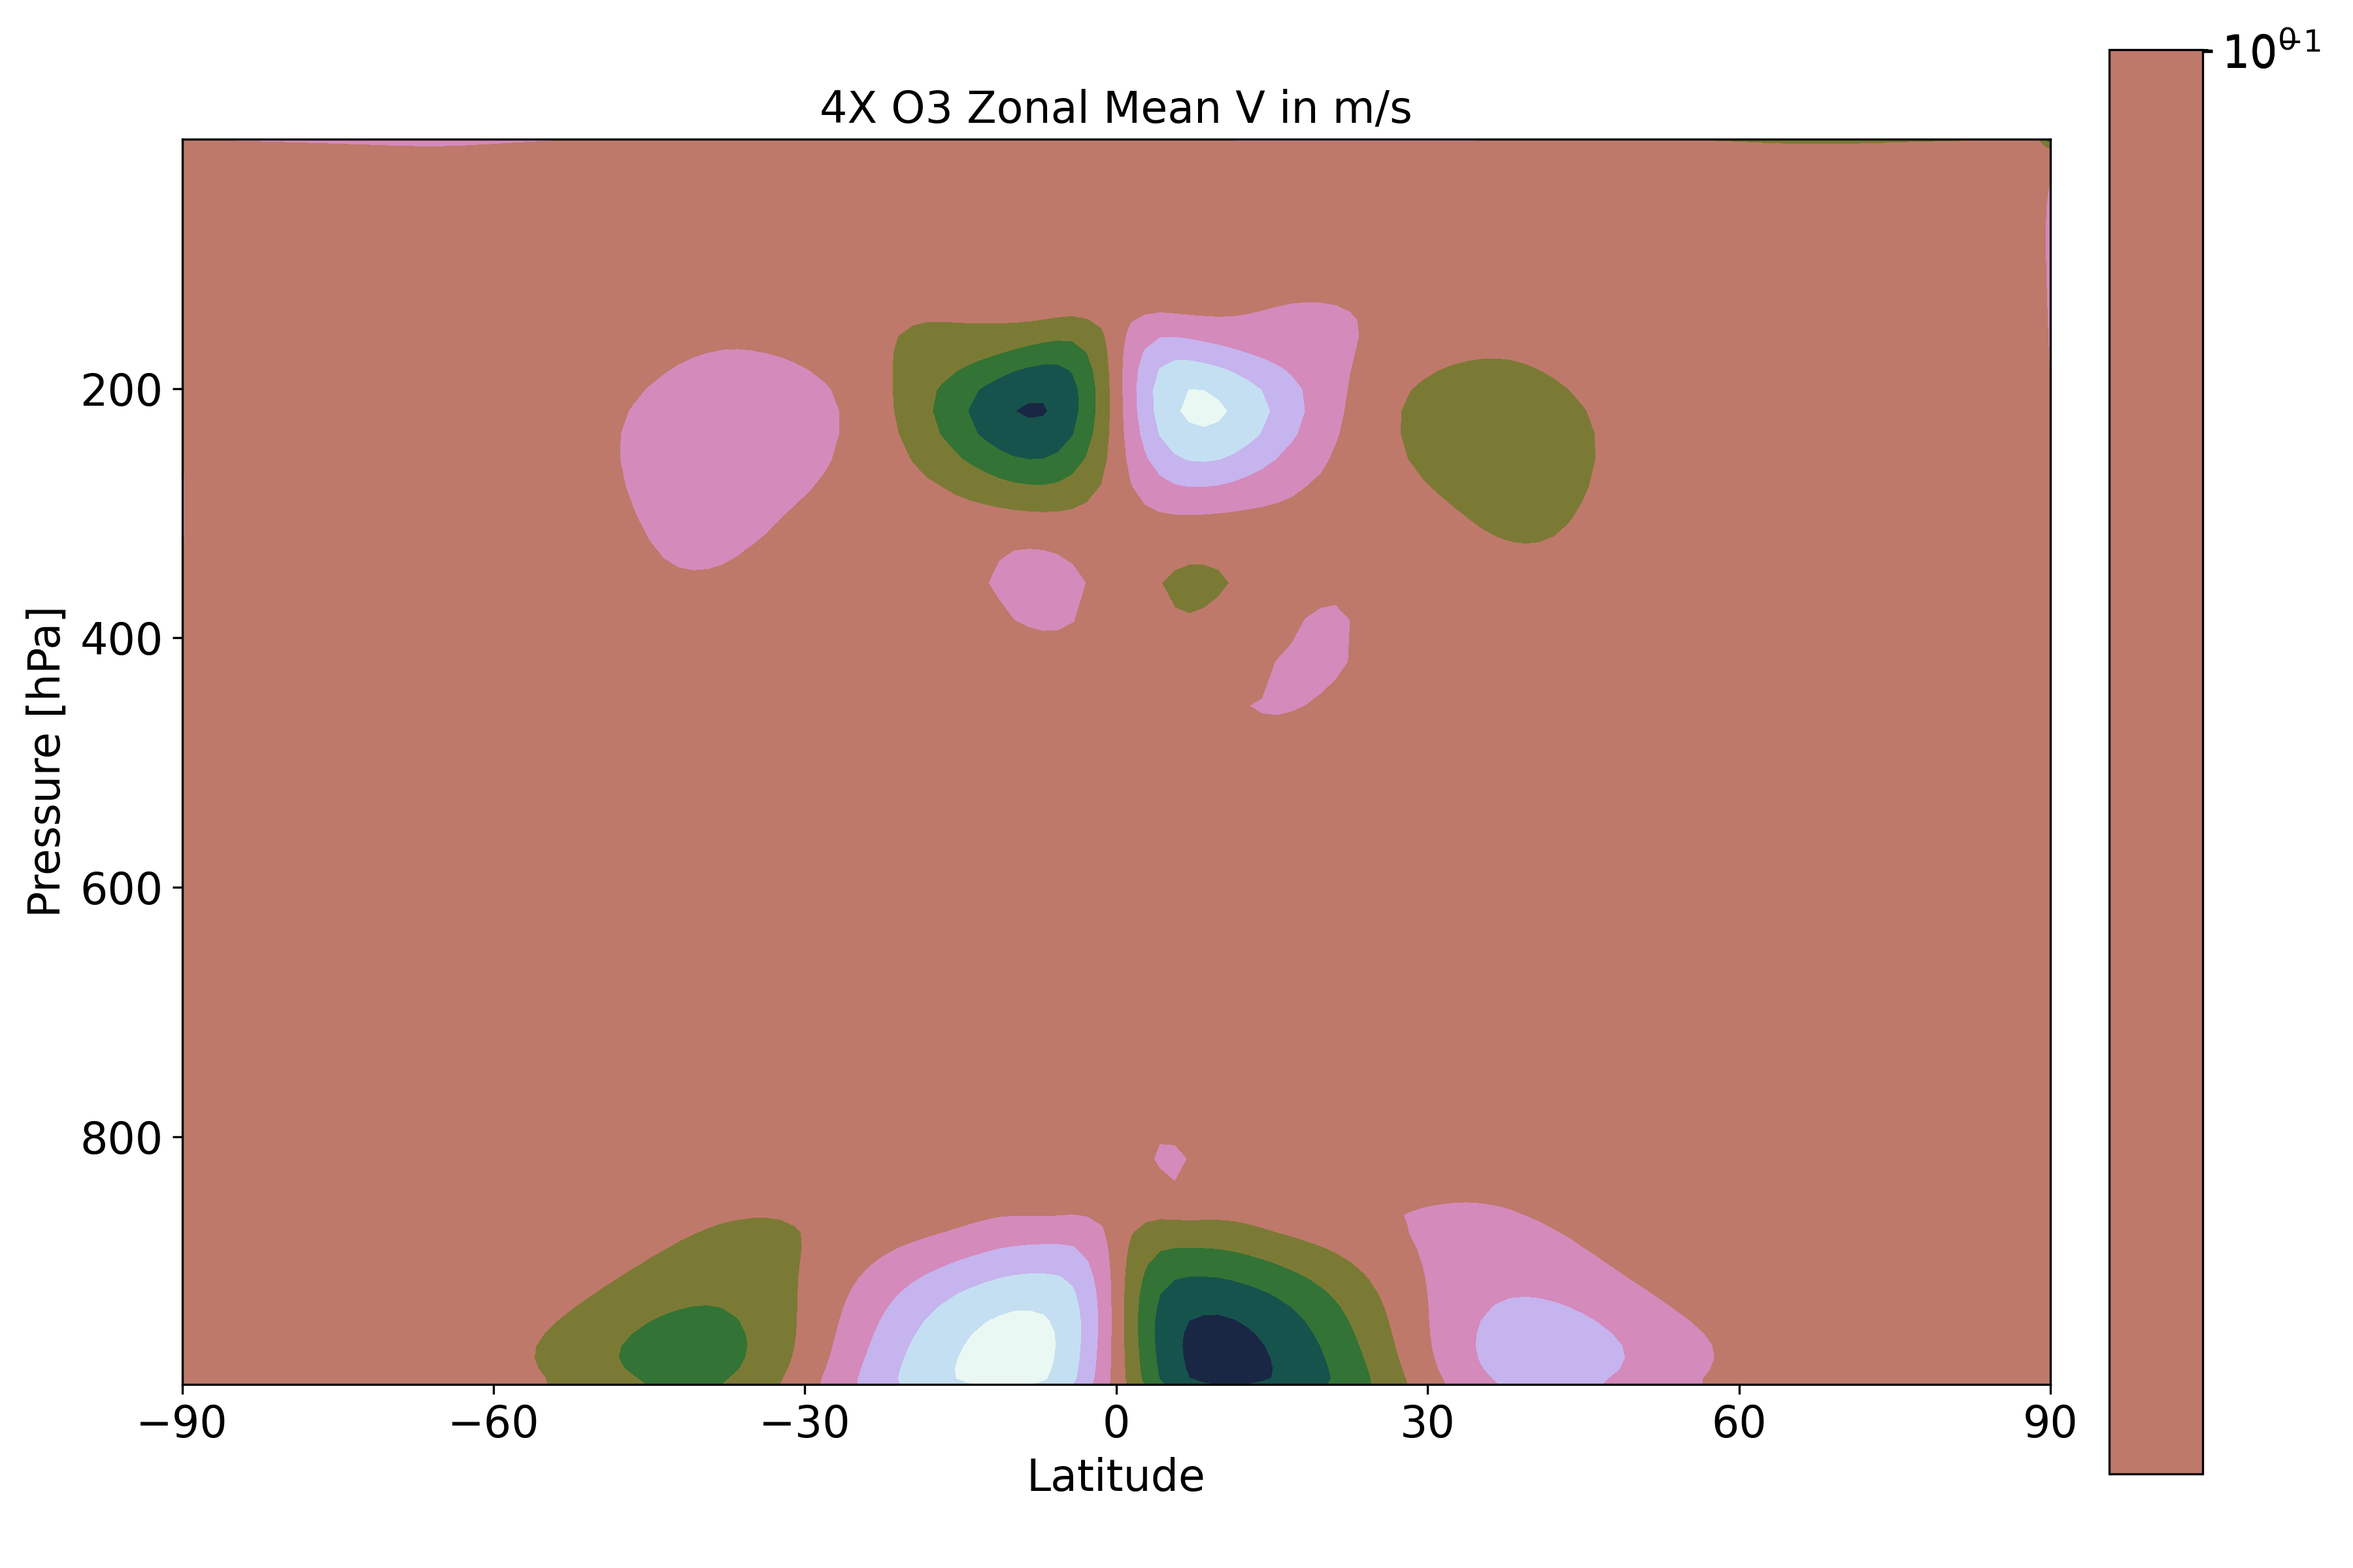
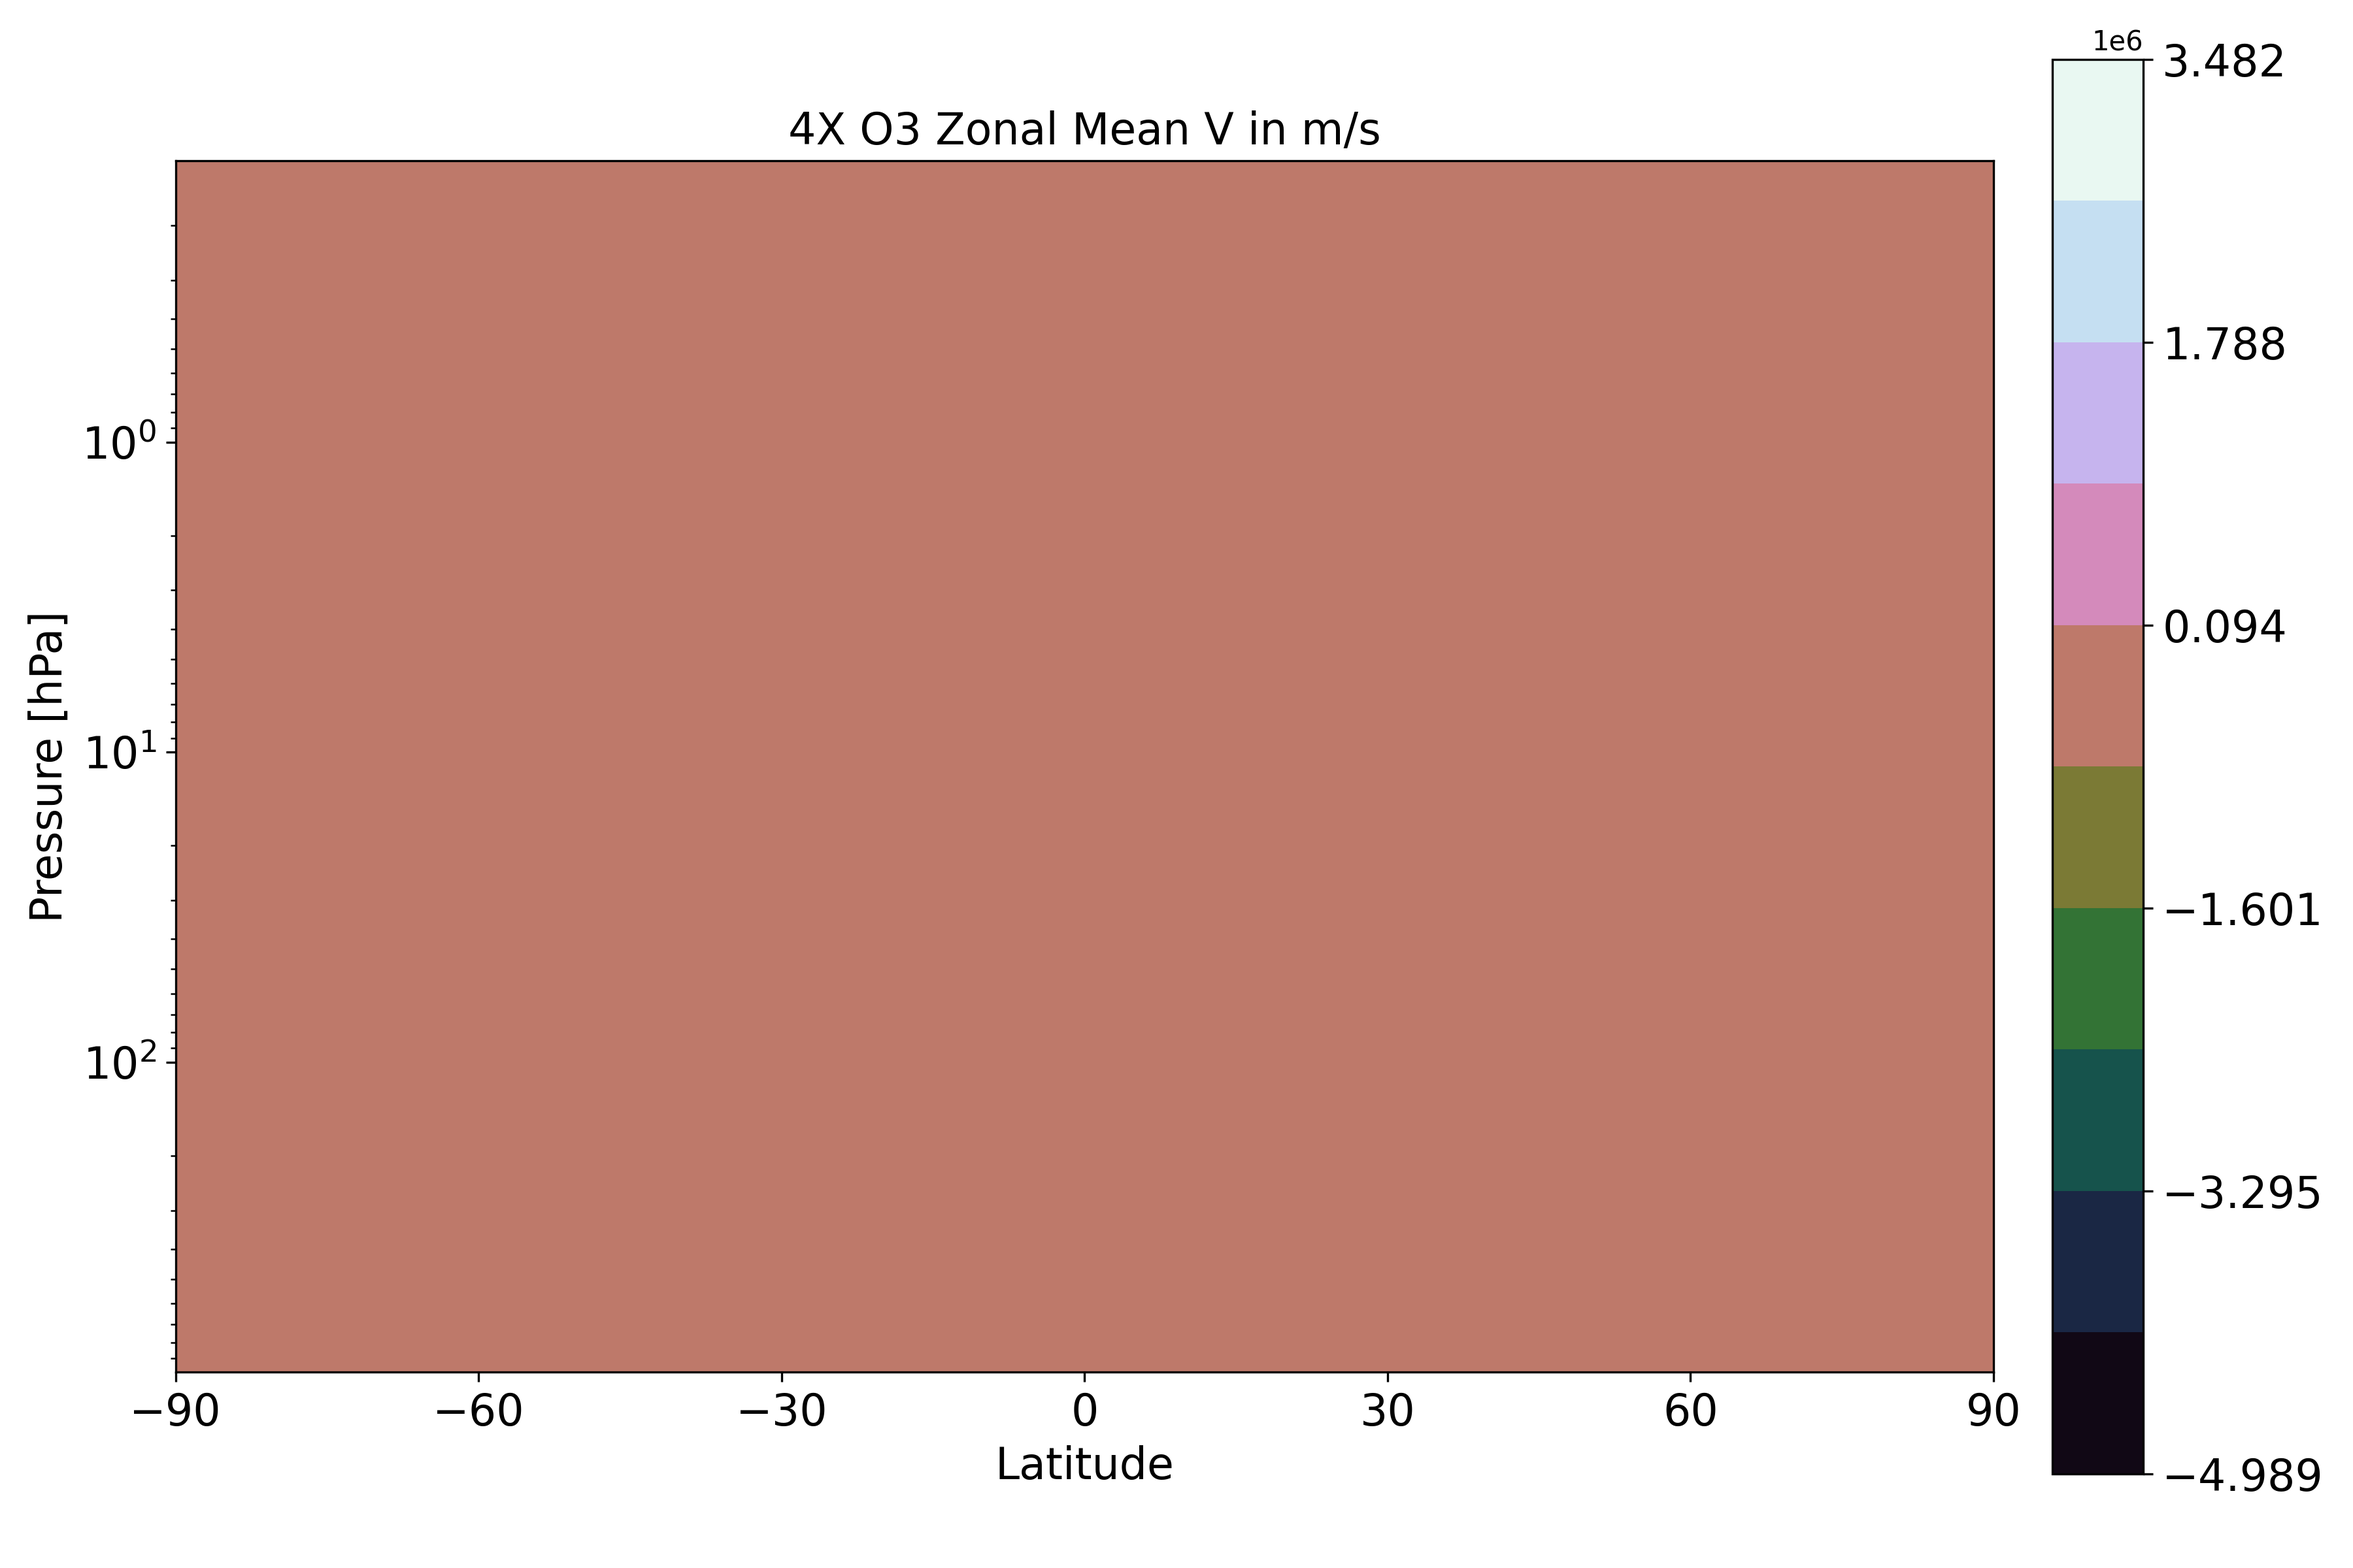
fixed negative sign issue for calculating order of mag

Changed region(s): [[0.0, 0.0, 0.9956, 0.9688], [0.2489, 0.1875, 0.6844, 0.4688], [0.4667, 0.7188, 0.4978, 0.75]]

diff --git a/netCDFplot.py b/netCDFplot.py
@@ -135,7 +135,7 @@ def plot_contour(input_file,parameter,horz_ax: Literal['lon', 'lat', 'lev'],vert
     max_value = np.max(plot_parameter)
     min_value = np.min(plot_parameter)
     mean_value = np.mean(plot_parameter)
-    order_of_mag = np.floor(np.log10(mean_value)).values
+    order_of_mag = np.floor(np.log10(np.abs(mean_value))).values
     print(order_of_mag)
     print(f'Max Value: {max_value:.2E}')
     print(f'Min Value: {mean_value:.2E}')
